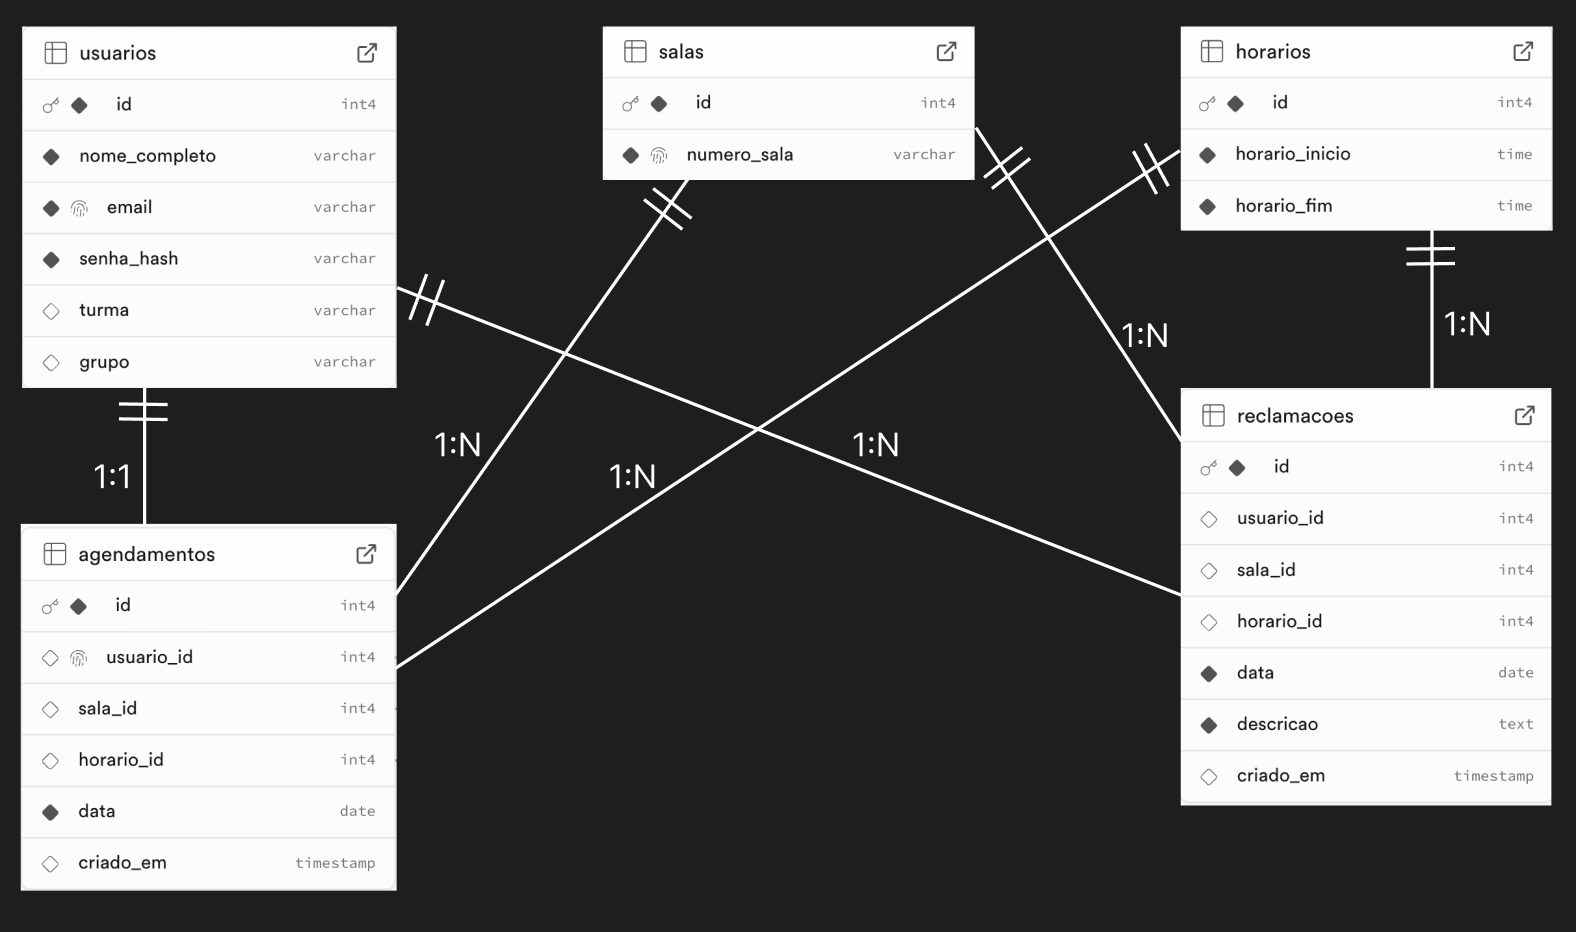
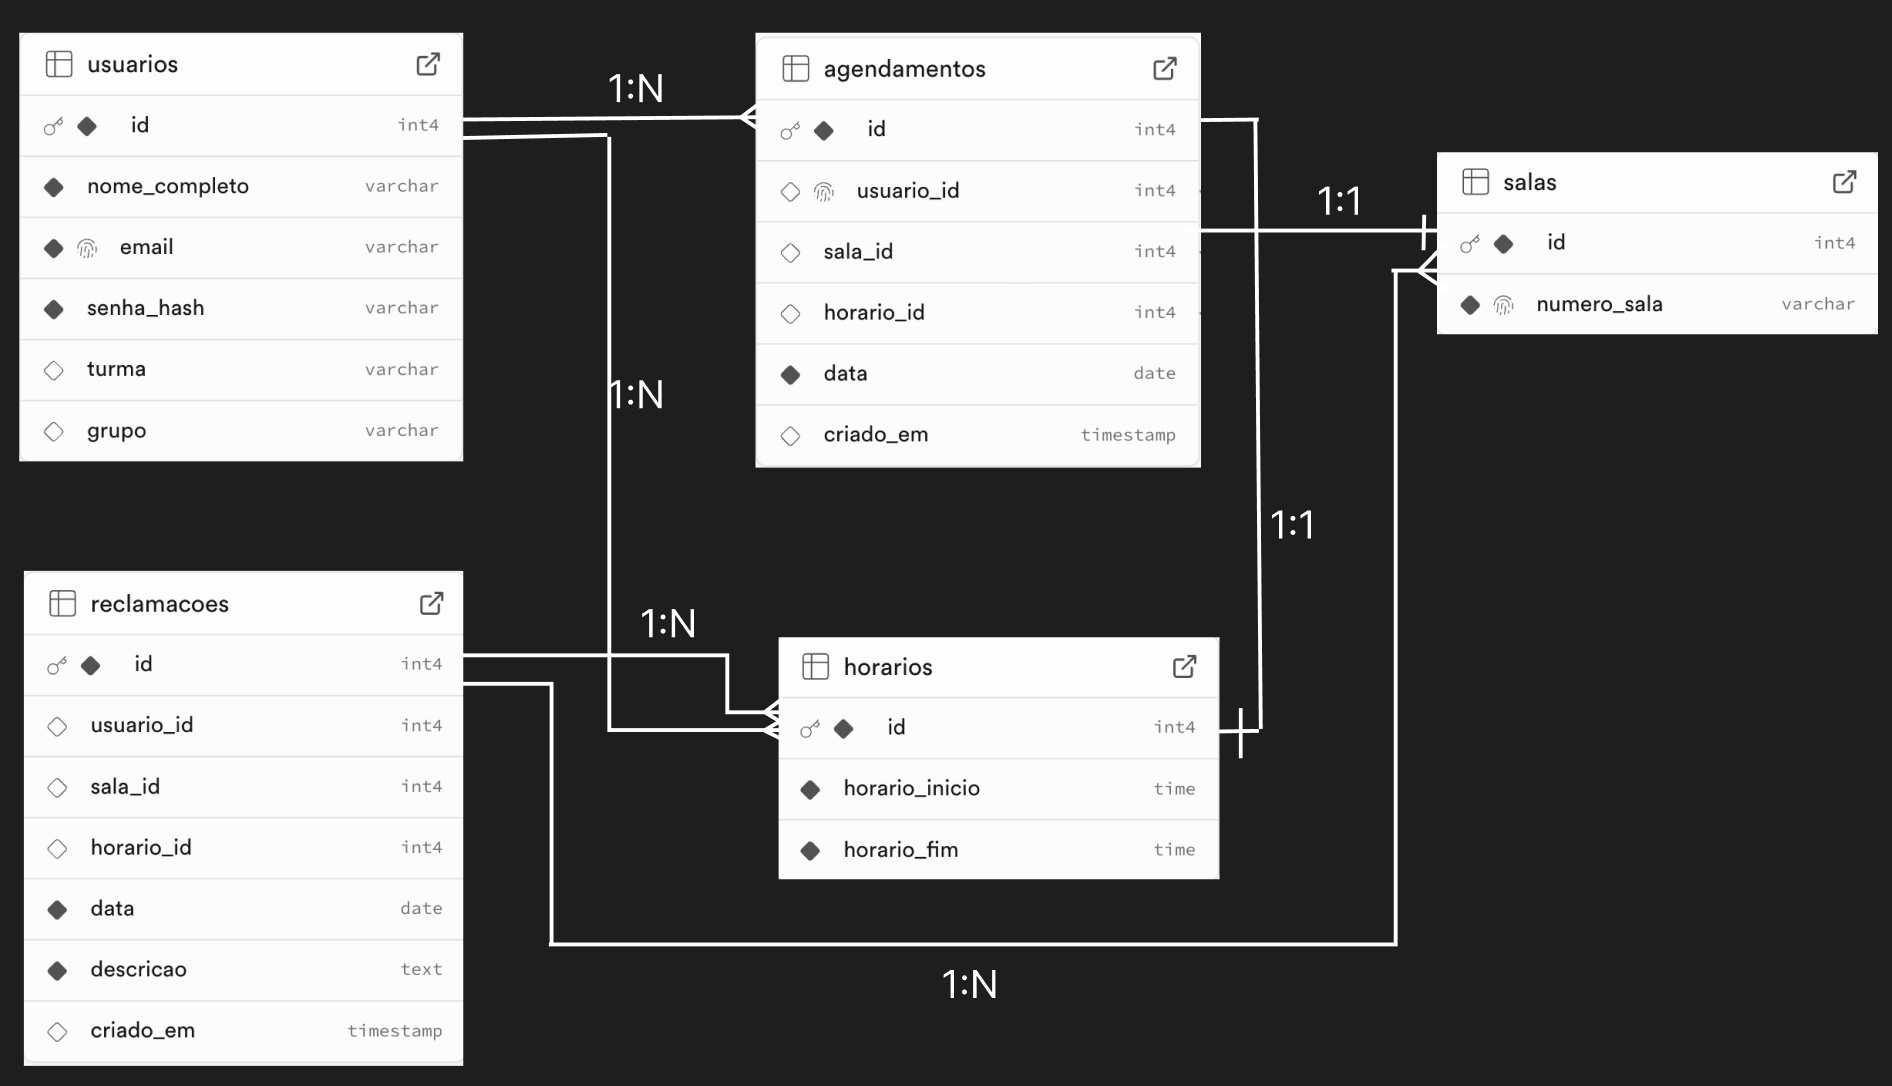
adiciona banco de dados
.

diff --git a/meu-projeto/README.md b/meu-projeto/README.md
@@ -1,1 +1,153 @@
-# ProjetoIndividual
+# Projeto Individual
+
+Este projeto é um boilerplate básico para uma aplicação Node.js seguindo o padrão MVC (Model-View-Controller), utilizando PostgreSQL como banco de dados.
+
+## Descrição do Projeto
+
+O sistema desenvolvido neste projeto individual é uma aplicação web para agendamento de salas de estudo em grupo no Inteli. Ele permite que os alunos consultem a disponibilidade de salas e horários, realizem reservas, cancelem agendamentos e registrem reclamações. O objetivo é tornar o processo mais simples, organizado e acessível, resolvendo a dificuldade atual de encontrar informações claras sobre o uso das salas.
+
+## Requisitos
+
+- Node.js (versão 23.9.0)
+- PostgreSQL (versão 17.4)
+
+## Instalação
+
+1. **Clonar o repositório:**
+
+```bash
+   git clone https://github.com/seu-usuario/seu-projeto.git
+   cd seu-projeto
+```
+
+2. **Instalar as dependências:**
+    
+```bash
+npm install
+```
+    
+3. **Configurar o arquivo `.env`:**
+    
+Renomeie o arquivo `.env.example` para `.env` e configure as variáveis de ambiente necessárias, como as configurações do banco de dados PostgreSQL.
+
+Como executar o projeto localmente
+-----------------------------------
+**1. Execução:**
+
+```bash
+npm run dev
+    ou
+npm start
+```    
+**2. Acesse no navegador**
+http://localhost:3000
+
+Configuração do Banco de Dados
+------------------------------
+
+1. **Criar banco de dados:**
+    
+    Crie um banco de dados PostgreSQL com o nome especificado no seu arquivo `.env`.
+    
+2. **Executar o script SQL de inicialização:**
+    
+```bash
+npm run init-db
+```
+    
+Isso criará a tabela `users` no seu banco de dados PostgreSQL com UUID como chave primária e inserirá alguns registros de exemplo.
+    
+
+Funcionalidades
+---------------
+
+* **Padrão MVC:** Estrutura organizada em Model, View e Controller.
+* **PostgreSQL:** Banco de dados relacional utilizado para persistência dos dados.
+* **UUID:** Utilização de UUID como chave primária na tabela `users`.
+* **Scripts com `nodemon`:** Utilização do `nodemon` para reiniciar automaticamente o servidor após alterações no código.
+* **Testes:** Inclui estrutura básica para testes automatizados.
+
+Scripts Disponíveis
+-------------------
+
+* `npm start`: Inicia o servidor Node.js.
+* `npm run dev`: Inicia o servidor com `nodemon`, reiniciando automaticamente após alterações no código.
+* `npm run test`: Executa os testes automatizados.
+* `npm run test:coverage`: Executa os testes e gera um relatório de cobertura de código.
+
+Estrutura de Diretórios
+-----------------------
+```
+meu-projeto/
+│
+├── config/                # Arquivos de configuração (ex: conexão com banco)
+│   └── db.js
+├── controllers/           # Lógica de controle das requisições
+│   └── userController.js
+├── documentos/            # Documentação do projeto
+│   └── PI-WAD.md
+├── models/                # Definição de modelos de dados (estrutura do banco)
+│   └── userModel.js
+├── node_modules/          # Lugar em que o Node.js armazena todas as suas dependências
+├── routes/                # Definição das rotas do sistema
+│   └── frontRoutes.js
+│   └── index.js
+│   └── userRoutes.js
+├── services/              # Serviços auxiliares do sistema
+│   └── userService.js
+├── assets/                # Arquivos públicos como imagens e fontes
+│   └── agendada.png
+│   └── agendar1.png
+│   └── agendar2.png
+│   └── agendar3.png
+│   └── login.png
+│   └── modelo-banco.png
+│   └── modelo-banco2.png
+│   └── Persona.jpeg
+│   └── reclamacoes.png
+├── scripts/               # Arquivos de JavaScript públicos
+│   └── init.sql
+│   └── runSQLScript.js
+├── tests/                 # Arquivos de testes unitários
+│   └── userController.test.js
+│   └── userModel.test.js
+│   └── userRoutes.test.js
+│   └── userService.test.js
+├── views/                 # Pasta de visualisações/ templates
+│   └── components
+│       └── header.ejs
+│   └── css
+│       └── style.css
+│   └── layout
+│       └── main.ejs
+│   └── pages
+│       └── page1.ejs
+│       └── page2.ejs
+├── .gitignore             # Arquivo para ignorar arquivos no Git
+├── .env                   # Arquivo de variáveis de ambiente
+├── jest.config.js         # Arquivo de configuração do Jest
+├── package-lock.json      # Gerenciador de dependências do Node.js
+├── package.json           # Gerenciador de dependências do Node.js
+├── README.md              # Documentação do projeto (Markdown)
+├── server.js              # Arquivo principal que inicializa o servidor
+└── rest.http              # Teste de endpoints (opcional)
+```
+* **`config/`**: Configurações do banco de dados e outras configurações do projeto.
+ 
+* **`controllers/`**: Controladores da aplicação (lógica de negócio).
+* **`models/`**: Modelos da aplicação (definições de dados e interações com o banco de dados).
+* **`routes/`**: Rotas da aplicação.
+* **`tests/`**: Testes automatizados.
+* **`views/`**: Views da aplicação (se aplicável).
+
+Contribuição
+------------
+
+Contribuições são bem-vindas! Sinta-se à vontade para abrir um issue ou enviar um pull request.
+
+Licença
+-------
+
+Este projeto está licenciado sob a Licença MIT.
+
+Este README.md fornece uma visão geral clara do boilerplate, incluindo instruções de instalação, configuração do banco de dados, funcionalidades principais, scripts disponíveis, estrutura de diretórios, como contribuir e informações de licença. Certifique-se de personalizar as seções com detalhes específicos do seu projeto conforme necessário.
